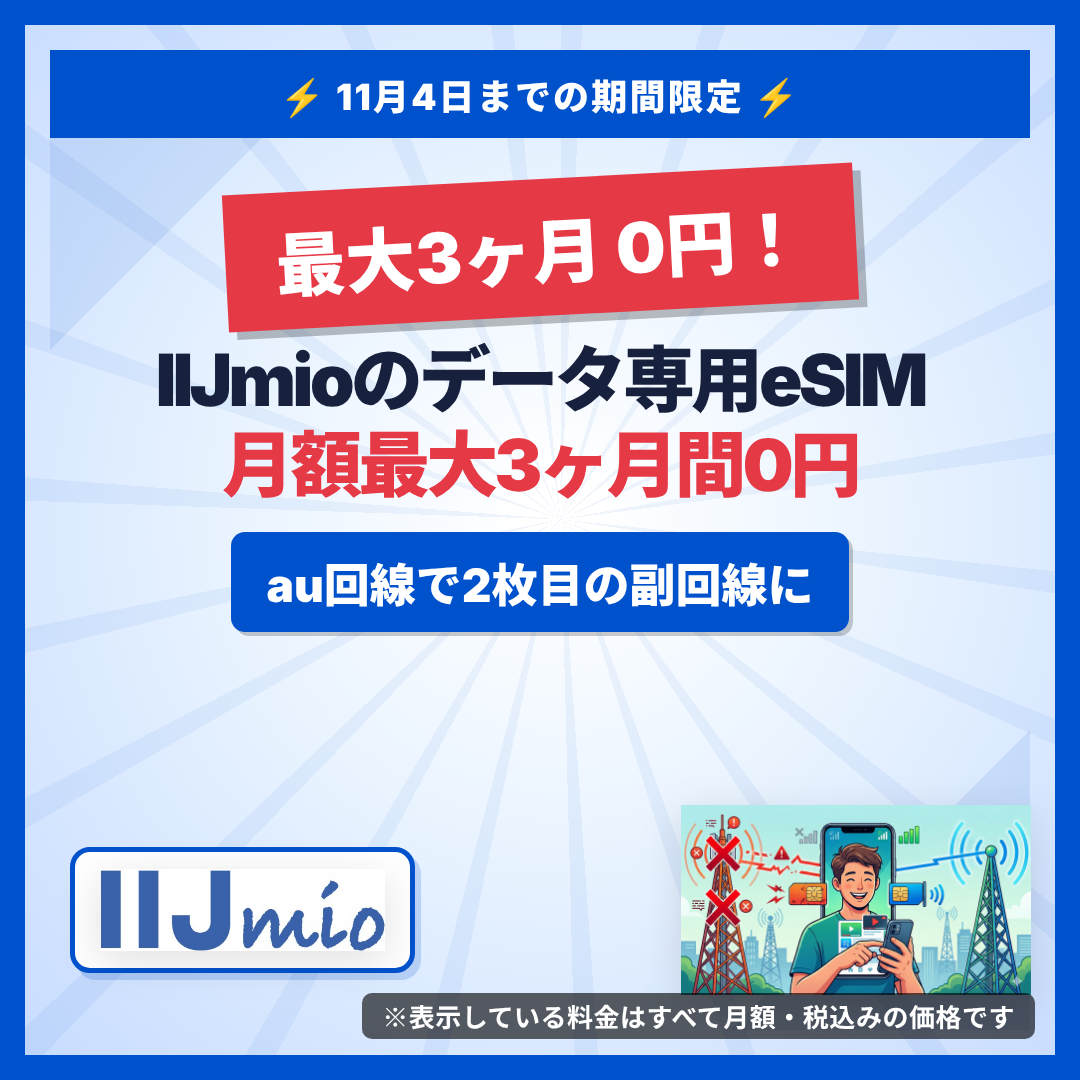
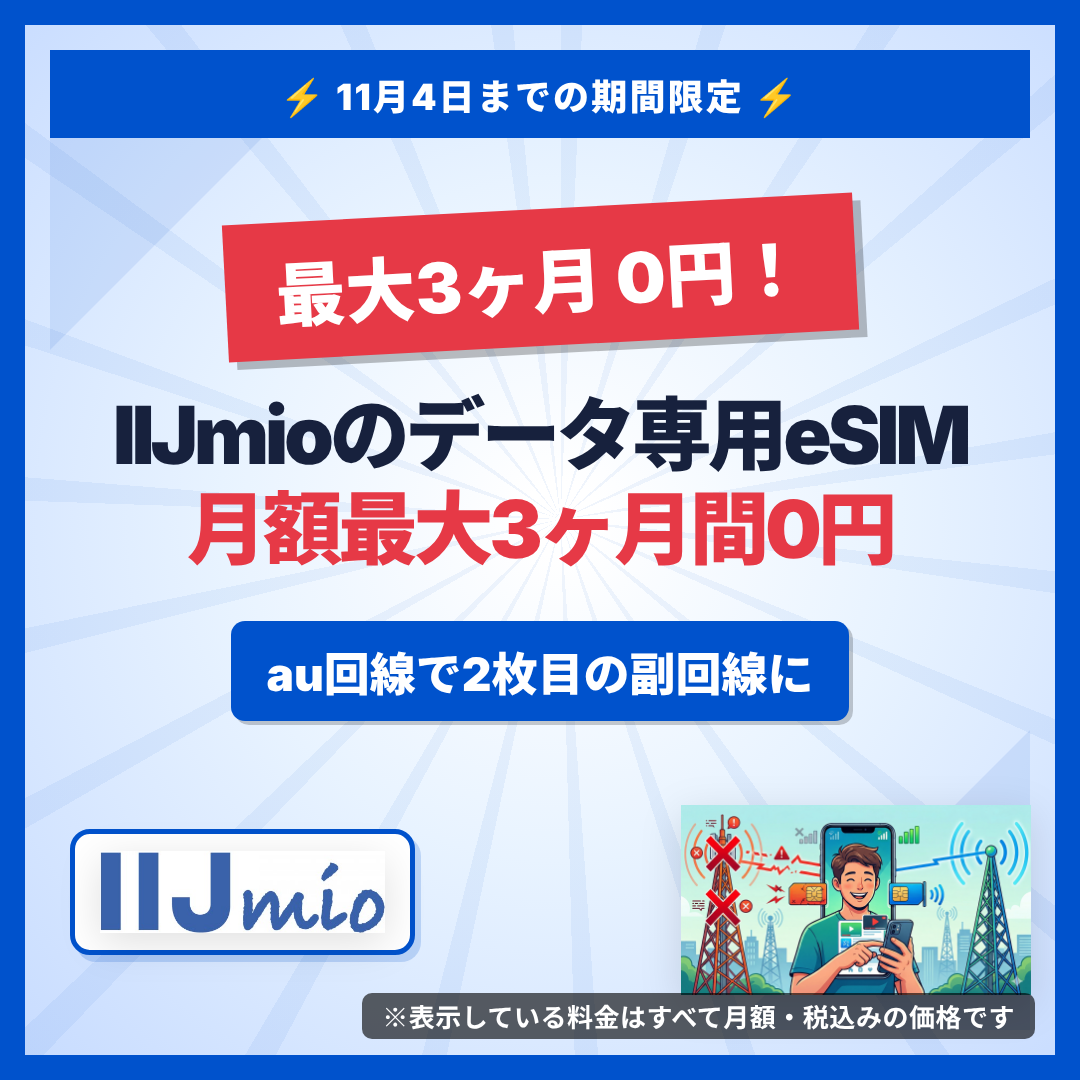
スライド修正

Changed region(s): [[0.0917, 0.1528, 0.9167, 0.6722], [0.0611, 0.7639, 0.3972, 0.9167]]

diff --git a/slides-short.html b/slides-short.html
@@ -24,9 +24,9 @@
       .thumb-top-strip { position:absolute; top:25px; left:25px; right:25px; z-index:3; padding:18px 0; background:var(--blue); color:#fff; font-size:36px; font-weight:900; letter-spacing:.06em; }
       .thumb-accent-tri { position:absolute; width:0; height:0; } .thumb-accent-tri.tl { top:25px; left:25px; border-top:300px solid rgba(0,82,204,.09); border-right:300px solid transparent; } .thumb-accent-tri.br { right:25px; bottom:25px; border-bottom:300px solid rgba(0,82,204,.09); border-left:300px solid transparent; }
       .thumb-content { position:relative; z-index:2; } .thumb-tag { display:inline-block; margin-bottom:22px; padding:18px 50px; transform:rotate(-3deg); background:var(--red); box-shadow:8px 8px 0 rgba(0,0,0,.25); color:#fff; font-size:70px; font-weight:900; }
-      .thumb-title { max-width:900px; margin:0 auto 24px; color:#17213d; font-size:72px; font-weight:900; line-height:1.18; letter-spacing:-.055em; } .thumb-title span { color:var(--red); }
+      .thumb-title { max-width:900px; margin:0 auto 24px; color:#17213d; font-size:80px; font-weight:900; line-height:1.18; letter-spacing:-.055em; } .thumb-title span { color:var(--red); }
       .thumb-sub-band { display:inline-block; padding:17px 35px; border-radius:14px; background:var(--blue); box-shadow:4px 4px 0 rgba(0,0,0,.2); color:#fff; font-size:46px; font-weight:900; }
-      .thumb-logo-card { position:absolute; z-index:2; left:45px; bottom:82px; display:grid; place-items:center; width:345px; height:126px; padding:14px; border:5px solid var(--blue); border-radius:20px; background:#fff; box-shadow:6px 7px 0 rgba(0,82,204,.18); } .thumb-logo-card img { max-width:285px; max-height:86px; }
+      .thumb-logo-card { position:absolute; z-index:2; left:45px; bottom:100px; display:grid; place-items:center; width:345px; height:126px; padding:14px; border:5px solid var(--blue); border-radius:20px; background:#fff; box-shadow:6px 7px 0 rgba(0,82,204,.18); } .thumb-logo-card img { max-width:285px; max-height:86px; }
       .thumb-illust { right:24px; bottom:16px; height:278px; } .thumb-illust img { max-width:350px; }
       .choice-lead,.blue-callout,.saving-strip { padding:21px 26px; border-radius:16px; background:var(--ink); color:#fff; font-size:40px; font-weight:900; text-align:center; }
       .type-card { min-height:150px; padding:23px 30px; border:7px solid #c4d8f7; border-radius:22px; background:#f6faff; } .type-card b { display:block; margin-bottom:10px; font-size:48px; } .type-card small { color:var(--muted); font-size:31px; font-weight:900; }
@@ -45,10 +45,10 @@
     <div class="slide-container slide-thumbnail price-note" data-slide-id="1">
       <div class="thumb-top-strip">⚡ 11月4日までの期間限定 ⚡</div>
       <i class="thumb-accent-tri tl"></i><i class="thumb-accent-tri br"></i>
-      <div class="thumb-content">
+      <div class="thumb-content" style="margin-top: 30px;">
         <div class="thumb-tag">最大3ヶ月 0円！</div>
-        <h1 class="thumb-title">IIJmioのデータ専用eSIM<br /><span>月額最大3ヶ月間0円</span></h1>
-        <div class="thumb-sub-band">au回線で2枚目の副回線に</div>
+        <h1 class="thumb-title" style="margin-top: 20px;">IIJmioのデータ専用eSIM<br /><span>月額最大3ヶ月間0円</span></h1>
+        <div class="thumb-sub-band" style="margin-top: 20px;">au回線で2枚目の副回線に</div>
       </div>
       <div class="thumb-logo-card"><img src="public/images/logo/iijmio_logo.png" alt="IIJmio ロゴ" /></div>
       <div class="slide-illust thumb-illust" style="z-index: 2;"><img src="public/images/common/複数回線持ちで通信障害対策.png" alt="複数回線で通信障害に備える" /></div>
